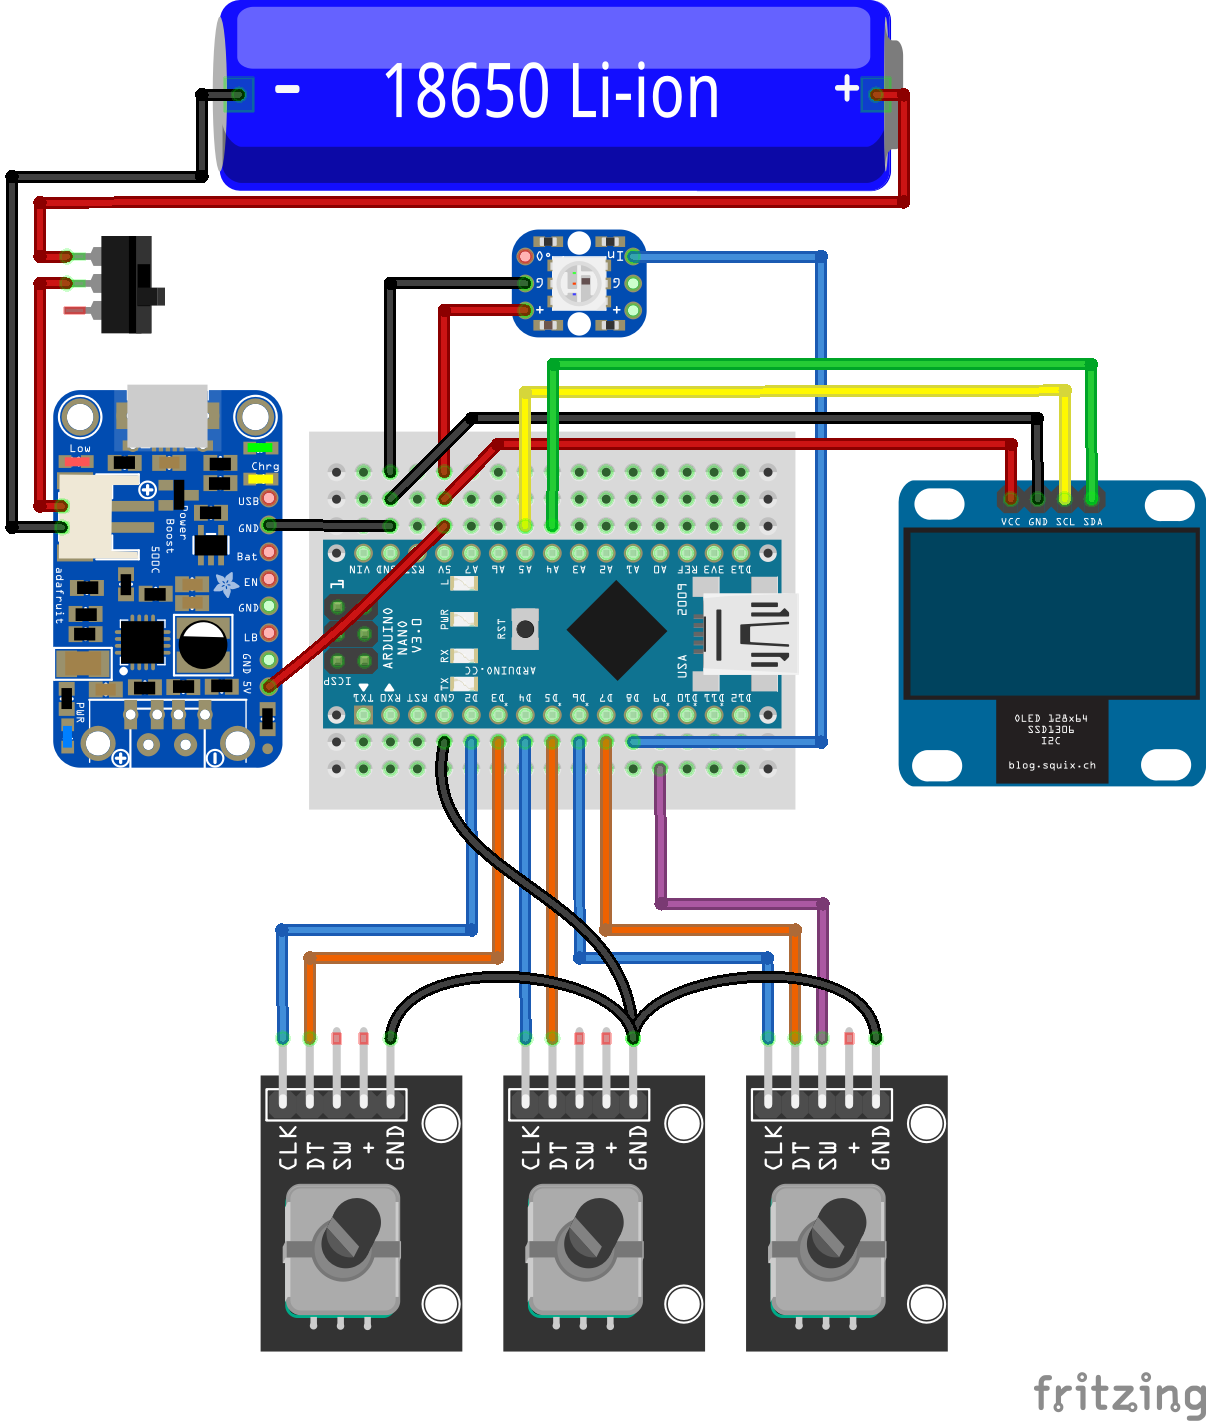
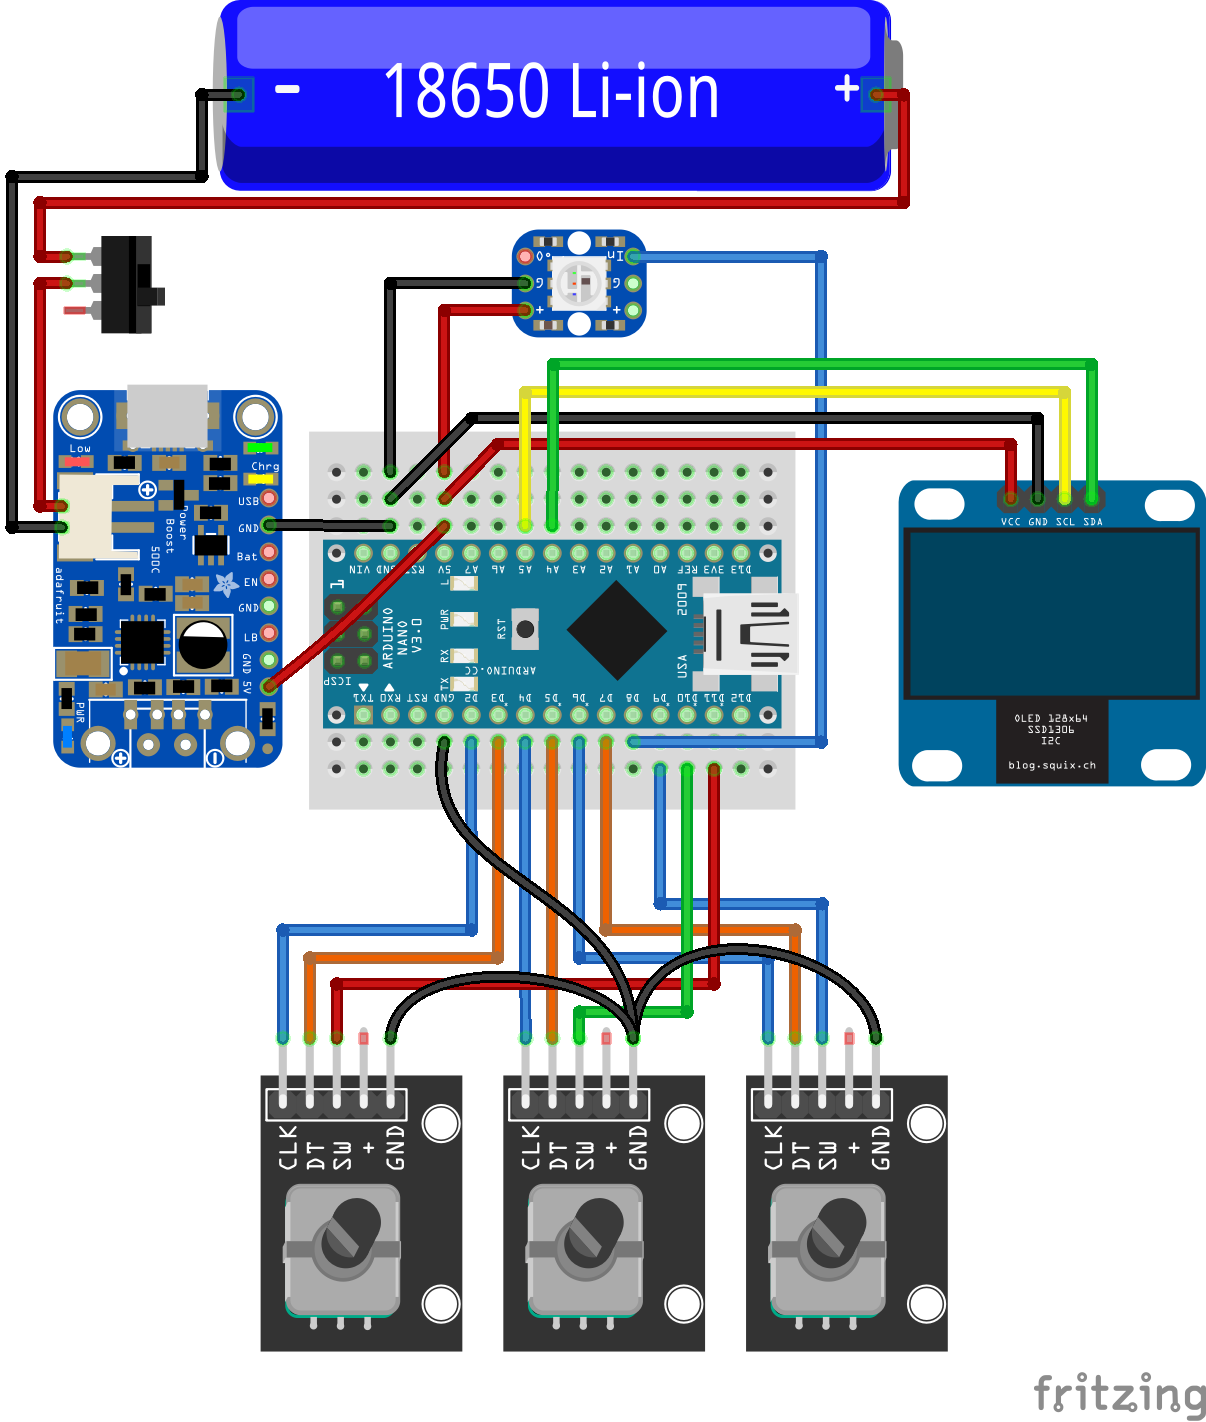
version 1.1 with 3 clicking buttons now

Changed region(s): [[0.3988, 0.526, 0.7363, 0.7426], [0.2761, 0.6807, 0.3682, 0.7426], [0.8897, 0.2785, 0.9204, 0.3094]]

diff --git a/src/encoders/RotEnLib.cpp b/src/encoders/RotEnLib.cpp
@@ -1,59 +1,117 @@
 // RotEnLib
-// -----
+// --------
 // author: mgesteiro
 // date: 20211205
 
 #include "RotEnLib.h"
 #include "Arduino.h"
 
+#define BTNDEBOUNCETIME 10
+#define ENCDEBOUNCETIME 4
+#define LONGPRESSTIME 800
 
 // constructor
-RELEncoder::RELEncoder(int S1, int S2, int min, int max, int threshold=15000, int thdelta=10)
+RELEncoder::RELEncoder(int S1, int S2, int btn, int min, int max, int threshold=15, int thdelta=10)
 {
   // Remember Hardware Setup
-  _s1 = S1;
-  _s2 = S2;
-  _min = min;
-  _max = max;
-  _th = threshold;
-  _thd = thdelta;
-  _position = 0;
+  this->_s1 = S1;
+  this->_s2 = S2;
+  this->_btn = btn;
+  this->_min = min;
+  this->_max = max;
+  this->_th = threshold;
+  this->_thd = thdelta;
+  
+  // initial state
+  this->_position = 0;
+  this->_s1State = 0;
+  this->_s1LastState = 0;
+  this->_btnState = HIGH;
+  this->_btnLastState = HIGH;
+  this->_btndebouncing = false;
 
   // Setup the input pins and turn on pullup resistor
-  pinMode(_s1, INPUT_PULLUP);
-  pinMode(_s2, INPUT_PULLUP);
+  pinMode(this->_s1, INPUT_PULLUP);
+  pinMode(this->_s2, INPUT_PULLUP);
+  pinMode(this->_btn, INPUT_PULLUP);
 } // RELEncoder()
 
 
 int RELEncoder::getPosition()
 {
-  return _position;
+  return this->_position;
 } // getPosition()
 
+void RELEncoder::setPosition(int newpos)
+{
+  this->_position = newpos;
+} // setPosition()
+
+int RELEncoder::getBtnState()
+{
+  return this->_btnState;
+} // getBtnState()
+
+void RELEncoder::setButtonOnReleaseCB(ButtonOnReleaseCallback callback) {
+  _callbackOnRelease = callback;
+} // setButtonOnReleaseCB()
+
+void RELEncoder::setButtonOnLongPressCB(ButtonOnReleaseCallback callback) {
+  _callbackOnLongPress = callback;
+} // setButtonOnReleaseCB()
 
 void RELEncoder::loop(void)
 {
-  _s1State = digitalRead(_s1);
-  // check if S1 has changed -> that means a Pulse has occured
-  if (_s1State != _s1LastState) {
-    unsigned long nowt = micros();
-    // simple debouncing filter: 4 ms minimun window
-    if ((nowt-_savedt) < 4000) return;
+  unsigned long nowt = millis();
+  // BUTTON
+  int btnState = digitalRead(this->_btn);
+  if (
+      (btnState != this->_btnState) // button changed state
+      && (! this->_btndebouncing) // not counting time yet
+     ) 
+  {
+    // start counting (debounce time)
+    this->_btnsavedt = nowt;
+    this->_btndebouncing = true;
+  }
+  if (
+      (this->_btndebouncing) // counting time 
+      && ((nowt - this->_btnsavedt) > BTNDEBOUNCETIME) // bigger than debounce time
+     ) 
+  {
+    // change of state
+    if (this->_btnLastState != this->_btnState) this->_btnLastState = this->_btnState;
+    this->_btnState = btnState;
+    this->_btndebouncing = false;
+    if ((this->_btnLastState == LOW) && (this->_btnState == HIGH)) _callbackOnRelease(*this, nowt-_btnpressed);
+    if ((this->_btnLastState == HIGH) && (this->_btnState == LOW)) _btnpressed = nowt;
+  }
+  if ((this->_btnLastState == HIGH) && (this->_btnState == LOW) && ((nowt-_btnpressed)>LONGPRESSTIME)) {
+    //_btnLastState == LOW; //stop
+    _callbackOnLongPress(*this, nowt-_btnpressed);
+    _btnpressed=nowt;
+  }
+  
+  // ENCODER
+  this->_s1State = digitalRead(this->_s1);
+  // check if S1 has changed -> that means a pulse has occured
+  if (this->_s1State != this->_s1LastState) {
+    // simple debouncing filter
+    if ((nowt-this->_encsavedt) < ENCDEBOUNCETIME) return;
     // only count when S1 is LOW
-    if (! _s1State) {
-      unsigned long nowt = micros();
-      int delta = ((nowt-_savedt) < _th) ? _thd : 1;
+    if (! this->_s1State) {
+      int delta = ((nowt-this->_encsavedt) < _th) ? _thd : 1;
       // if S2 state is the same as S1 state -> the encoder is rotating clockwise
-      if (digitalRead(_s2) == _s1State) _position+=delta;
-      else _position-=delta;
+      if (digitalRead(this->_s2) == this->_s1State) this->_position+=delta;
+      else this->_position-=delta;
 
-      if (_position > _max) _position=_max;
-      if (_position < _min) _position=_min;
+      if (this->_position > this->_max) this->_position=this->_max;
+      if (this->_position < this->_min) this->_position=this->_min;
 
-      _savedt=nowt; 
+      this->_encsavedt=nowt; 
     }
   } 
-  _s1LastState = _s1State;
+  this->_s1LastState = this->_s1State;
 } // loop()
 
-// End
+// end

diff --git a/src/encoders/RotEnLib.h b/src/encoders/RotEnLib.h
@@ -1,30 +1,50 @@
 // RotEnLib
-// -----
+// --------
 // author: mgesteiro
 // date: 20211205
 
 #ifndef RotEnLib_h
 #define RotEnLib_h
 
+class RELEncoder;
+typedef void (*ButtonOnReleaseCallback)(RELEncoder&, unsigned long);
+typedef void (*ButtonOnLongPressCallback)(RELEncoder&, unsigned long);
+
 class RELEncoder
 {
 public:
   // Constructor
-  RELEncoder(int S1, int S2, int min, int max, int threshold=15000, int thdelta=10);
+  RELEncoder(int S1, int S2, int btn, int min, int max, int threshold=15, int thdelta=10);
 
   // retrieve the current position
   int getPosition();
+
+  // set the current position
+  void setPosition(int newpos);
+
+  // retrieve button state
+  int getBtnState();
+
+  // set onRelease callback
+  void setButtonOnReleaseCB(ButtonOnReleaseCallback);
+
+  // set onLongPress callback
+  void setButtonOnLongPressCB(ButtonOnLongPressCallback);
 
   // update function - call this function often to update the state
   void loop(void);
 
 private:
-  int _s1, _s2, _min, _max, _th, _thd;
+  int _s1, _s2, _btn, _min, _max, _th, _thd;
   int _position;
   int _s1State, _s1LastState;
-  unsigned long _savedt;
+  int _btnState, _btnLastState;
+  unsigned long _encsavedt, _btnsavedt, _btnpressed;
+  bool _btndebouncing;
+  ButtonOnReleaseCallback _callbackOnRelease;
+  ButtonOnLongPressCallback _callbackOnLongPress;
 };
 
 #endif
 
-// End
+// end
